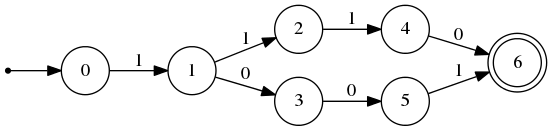
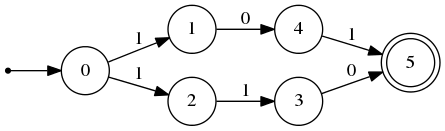
Clase martes

diff --git a/Automatas y lenguajes/AUTLEN.tex b/Automatas y lenguajes/AUTLEN.tex
@@ -169,12 +169,12 @@ El lenguaje generado por esta gramática serían todas las palabras de la forma:
 
 \begin{example}
 Ahora vamos a tratar de construir la gramática que define un lenguaje dado:
-L(G)=$\lbrace a^nb^{n+1}, n \geq 0 \rbrace$
+L(G)=$\lbrace (ab)^na, n \geq 0 \rbrace$
 
 La gramática que define este lenguaje es:
 \begin{enumerate}
-\item S $\Rightarrow$ aSb
-\item S $\Rightarrow$ b
+\item S $\Rightarrow$ abS
+\item S $\Rightarrow$ a
 \end{enumerate}
 
 El autómata finito asociado a este lenguaje sería:
@@ -410,8 +410,8 @@ Consiste en probar que toda palabra de lenguaje se puede obtener con esta gramá
 \item \textbf{Forma buena}
 Consiste en utilizar inducción:
 \[Base: aa, bb \in L\]
-\[Hipótesis:\ \forall w \in R \tq \abs{w} \leq 2n \Rightarrow w \in L\]
-\[Inducción: w'\in L \ \abs{w'} = 2n+2 \Rightarrow w' = axa | bxb \tq \abs{x} = 2n \Rightarrow x \in L \Rightarrow w' \in L\]
+\[Hipotesis:\ \forall w \in R \tq \abs{w} \leq 2n \Rightarrow w \in L\]
+\[Induccion: w'\in L \ \abs{w'} = 2n+2 \Rightarrow w' = axa | bxb \tq \abs{x} = 2n \Rightarrow x \in L \Rightarrow w' \in L\]
 
 Esta inducción nos permite demostrar que toda palabra del lenguaje puede obtenerse siguiendo esa gramática. La otra parte de la demostración es igual en el método regular y el bueno.
 \end{enumerate}
@@ -449,13 +449,60 @@ La gramática que genera este lenguaje es:
 \begin{example}
 Dado el lneguaje:
 \[L = \lbrace w \in (a+b)^* \tq n_a(w)=n_b(w)\rbrace\]
-
+\newpage
 La gramática que genera este lenguaje es:
 \begin{itemize}
-\item
-\item
-\item
-\item
+\item $S \rightarrow aSb | bSa | \lambda$
+\item $S \rightarrow SS$
 \end{itemize}
+
+Para construirla nos hemos fijado en que una palabra w puede ser de 4 formas:
+\[w = \left\{ \begin{array}{lcc}
+             aw_0b &   con  & w_0 \in L \\
+             \\ bw_0a &  con & w_0 \in L \\
+             \\ aw_0a  \Rightarrow  w = w_1w_2  & con  & w_1,w_2 \in L\\
+             \\ nw_0b  \Rightarrow  w = w_1w_2  &  con &  w_1,w_2 \in L
+             \end{array}
+   \right.\]
 \end{example}
+
+Una palabra puede ser derivada de diferentes formas a partir de una misma gramática. Para estos casos vamos a definir derivaciones ``leftmost" y ``rightmost":
+\begin{defn}[Leftmost]
+Consiste en derivar, en cada paso, el elemento no terminal colocado más a la izquierda. Se deja para el lector el arduo trabajo de deducir que signifca una derivación ``rightmost"
+\end{defn}
+
+Esto nos lleva a definir un nuevo concepto:
+
+\begin{defn}[Ambigüedad]
+Una gramática se define como ambigua si existen dos o más \textbf{árboles de derivación distintos} para la misma sentencia.
+
+Otra forma de definirlo sería considerar ambiguas aquellas gramáticas para las que existen dos \textbf{derivaciones leftmost (o rightmost)} distintas para la misma sentencia.
+\end{defn}
+
+\begin{example}
+Consideremos la gramática dada por las reglas:
+\begin{itemize}
+\item $E \rightarrow E + E | E \times E | I$
+\item $I \rightarrow a | b | c$
+\end{itemize}
+
+Se trata de una gramática ambigua ya que la sentencia $a+b\times c$ tiene dos derivaciones distintas leftmost.
+\begin{enumerate}
+\item $E \rightarrow E + E \rightarrow I + E \rightarrow a + E \rightarrow a + E \times E \rightarrow a + I \times E \rightarrow a + b \times E \rightarrow a + b \times I \rightarrow a + b \times c$
+\item $E \rightarrow E \times E \rightarrow E + E \times E \rightarrow I + E \times E \rightarrow a + E \times E \rightarrow a + I \times E \rightarrow a+b \times E \rightarrow a + b \times I \rightarrow a + b \times c$
+\end{enumerate}
+\end{example}
+
+Ya vimos que dos gramáticas son equivalentes si generan el mismo lenguaje pero vamos a recalcar que hay \textbf{infinitas} gramáticas que generan el mismo lenguaje. 
+
+Dada una gramática G=(T,N,S P) para obtener otra equivalente basta con hacer otra:
+\[G' =(T, N \cup \lbrace Z \rbrace, Z, P \cup \lbrace Z \rightarrow E \rbrace)\]
+
+\appendix
+\chapter{Ejercicios}
+
+\input{tex/Ejercicios.tex}
+
+
+\printindex
 \end{document}
